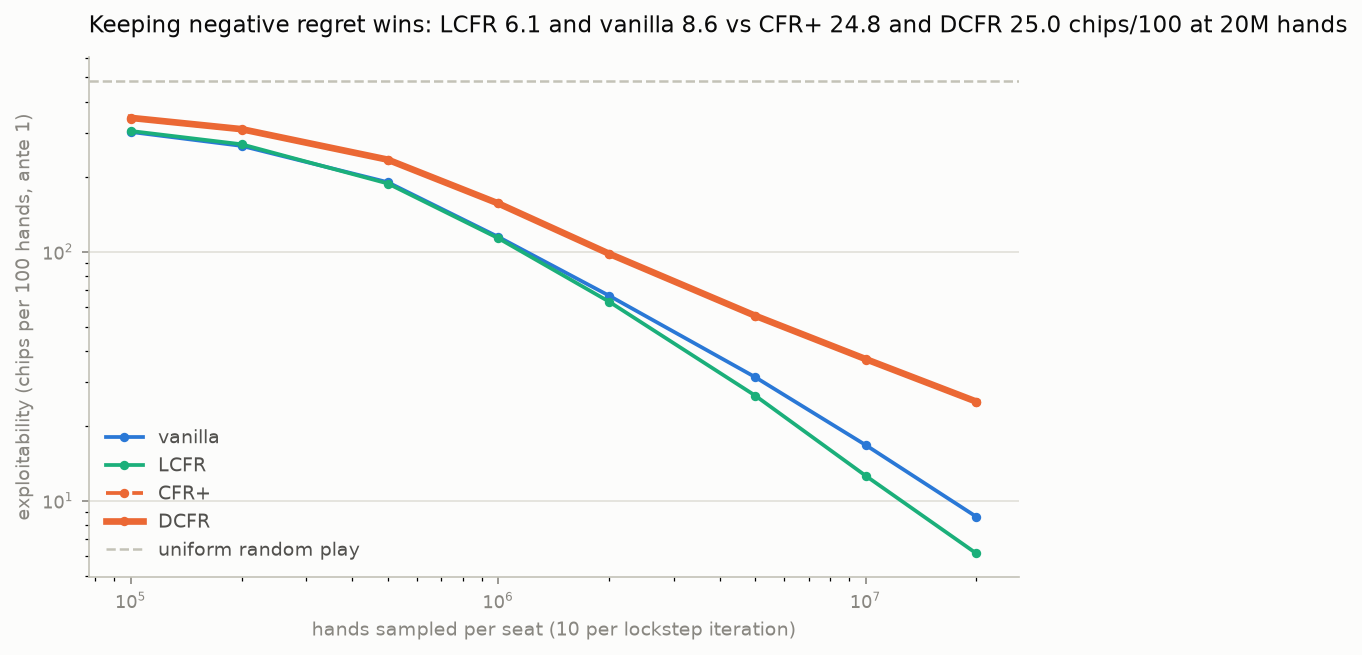
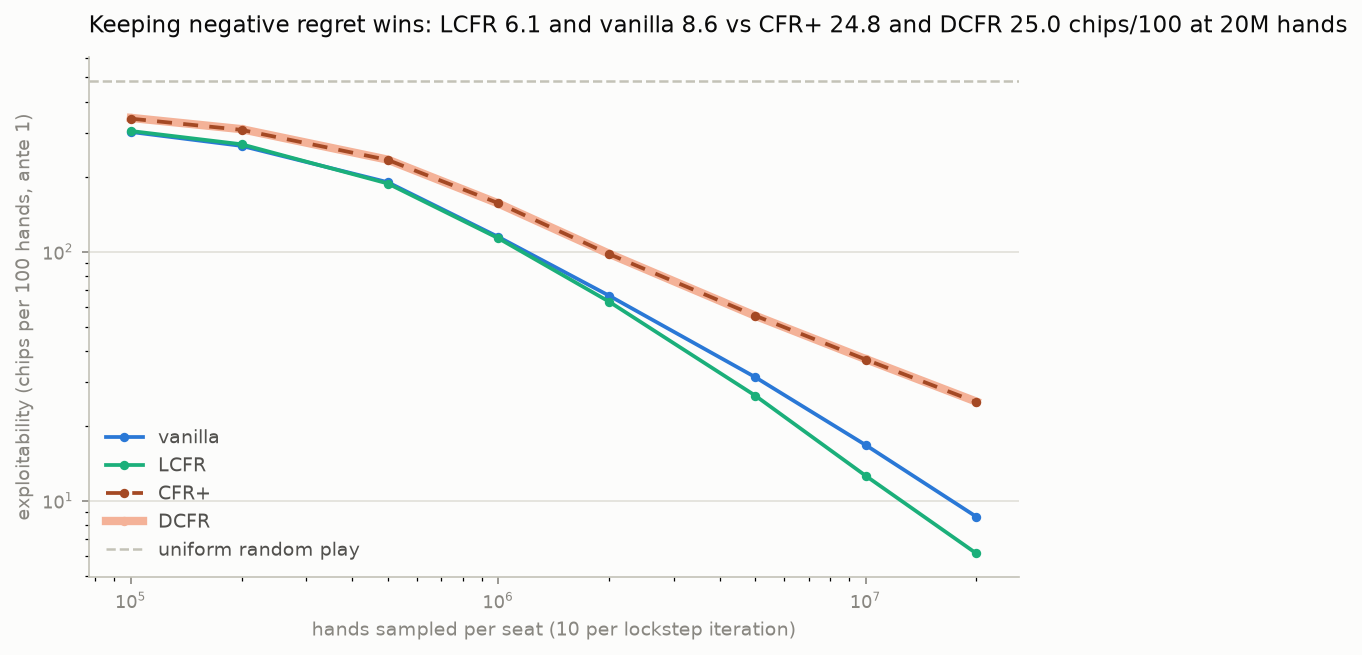
fix(rung3): CFR+ visible over DCFR in the race, public row tolerance, main tested
The race drew CFR+ dashed in DCFR's colour on top of DCFR's wide line,
so the dashes vanished into it. The pair keep one hue in two shades:
DCFR wide in a light tint, CFR+ dashed in a dark shade. Only race.png
changes; answer_sheet.json and grades.json regenerate byte-identical.

exploitability's row-sum tolerance is now public, since strategy.py
imports it. A test drives minidraw-play's main with --strategy and
--seed: the given file is played without a fetch, the report quotes no
release numbers, and the same seed and keys replay the same session.

Claude-Session: https://claude.ai/code/session_01SCLVFR2pGV3c5SVKUiJocg

diff --git a/tests/minidrawmaha/test_play.py b/tests/minidrawmaha/test_play.py
@@ -14,6 +14,7 @@ import pytest
 
 from drawmaha_solver.minidrawmaha.cards import CARD_SYMBOL, parse_cards
 from drawmaha_solver.minidrawmaha.game import Action, MiniState
+from drawmaha_solver.minidrawmaha import play
 from drawmaha_solver.minidrawmaha.play import (
     RELEASE_EXPLOITABILITY,
     RELEASE_SELF_PLAY_VALUE_P0,
@@ -27,6 +28,7 @@ from drawmaha_solver.minidrawmaha.play import (
     showdown_line,
     thrown_card,
 )
+from drawmaha_solver.minidrawmaha.strategy import save_strategy, uniform_strategy
 from drawmaha_solver.play_session import QuitGame, Scoreboard
 
 GRADES = Path(__file__).parents[2] / "figures" / "rung3" / "grades.json"
@@ -208,3 +210,31 @@ def test_another_strategy_is_not_read_against_the_release_numbers(capsys):
     out = capsys.readouterr().out
     assert "as P0: -1 over 1 hands (-1.000 per hand)" in out
     assert "0.091" not in out and "0.061" not in out
+
+# ---------------------------------------------------------------------------
+# The command
+# ---------------------------------------------------------------------------
+
+def test_main_plays_the_file_it_is_given_without_fetching_and_its_seed_replays(
+    tmp_path, monkeypatch, capsys
+):
+    # A whole-game uniform file: `load_strategy` refuses any other layout.
+    path = tmp_path / "uniform.npz"
+    save_strategy(uniform_strategy(), path)
+
+    def no_fetch():
+        raise AssertionError("--strategy was given, so nothing is fetched")
+
+    monkeypatch.setattr(play, "fetch_strategy", no_fetch)
+    typed = iter(["c", "s"] * 6 + ["q"])
+    monkeypatch.setattr("builtins.input", lambda prompt: next(typed))
+
+    def session():
+        play.main(["--strategy", str(path), "--seed", "3"])
+        return capsys.readouterr().out
+
+    first = session()
+    typed = iter(["c", "s"] * 6 + ["q"])
+    assert "Loaded UNIFORM" in first and "hand 2" in first
+    assert "0.061" not in first
+    assert session() == first

diff --git a/src/drawmaha_solver/minidrawmaha/analysis.py b/src/drawmaha_solver/minidrawmaha/analysis.py
@@ -139,15 +139,20 @@ class _Rule:
     linewidth: float
     zorder: int
 
+# CFR+ and DCFR are one family (both drop negative regret) and their curves
+# lie almost on top of each other, so they share CATEGORICAL[1]'s hue in two
+# shades: DCFR goes wide underneath in a light tint, CFR+ dashed on top in a
+# dark shade. In one shade the dashes vanish into the wide line beneath them.
+_FAMILY_LIGHT = "#f4b298"  # CATEGORICAL[1] mixed half and half with the surface
+_FAMILY_DARK = "#a44924"  # CATEGORICAL[1] at 70% brightness
+
 # Keyed by the directory name the Volume and `grades.json` both use, in the
-# order the legend and the answer sheet list them. CFR+ and DCFR share a colour
-# because their curves lie close: DCFR goes wide underneath, CFR+ dashed on
-# top, so both stay visible where they overlap.
+# order the legend and the answer sheet list them.
 RULES: dict[str, _Rule] = {
     "vanilla": _Rule(RegretRule.VANILLA, "vanilla", True, CATEGORICAL[0], "-", 1.8, 3),
     "lcfr": _Rule(RegretRule.LCFR, "LCFR", True, CATEGORICAL[2], "-", 1.8, 3),
-    "cfrplus": _Rule(RegretRule.CFR_PLUS, "CFR+", False, CATEGORICAL[1], (0, (4, 3)), 1.8, 4),
-    "dcfr": _Rule(RegretRule.DCFR, "DCFR", False, CATEGORICAL[1], "-", 3.2, 3),
+    "cfrplus": _Rule(RegretRule.CFR_PLUS, "CFR+", False, _FAMILY_DARK, (0, (4, 3)), 1.8, 4),
+    "dcfr": _Rule(RegretRule.DCFR, "DCFR", False, _FAMILY_LIGHT, "-", 4.0, 3),
 }
 
 COLUMN_COLOURS = {

diff --git a/src/drawmaha_solver/minidrawmaha/strategy.py b/src/drawmaha_solver/minidrawmaha/strategy.py
@@ -44,7 +44,7 @@ from pathlib import Path
 
 import numpy as np
 
-from drawmaha_solver.minidrawmaha.exploitability import _ROW_SUM_TOLERANCE
+from drawmaha_solver.minidrawmaha.exploitability import ROW_SUM_TOLERANCE
 from drawmaha_solver.minidrawmaha.game import InfoSet
 from drawmaha_solver.minidrawmaha.lockstep import read_lockstep
 from drawmaha_solver.minidrawmaha.packed_table import PackedTable
@@ -143,7 +143,7 @@ def _first_bad_row(probabilities: np.ndarray, widths: np.ndarray) -> int | None:
     finite = np.logical_and.reduceat(np.isfinite(values), starts)
     nonnegative = np.logical_and.reduceat(values >= 0.0, starts)
     totals = np.add.reduceat(values, starts)
-    fine = finite & nonnegative & (np.abs(totals - 1.0) <= _ROW_SUM_TOLERANCE)
+    fine = finite & nonnegative & (np.abs(totals - 1.0) <= ROW_SUM_TOLERANCE)
     bad = np.flatnonzero(~fine)
     return int(bad[0]) if bad.size else None
 

diff --git a/src/drawmaha_solver/minidrawmaha/exploitability.py b/src/drawmaha_solver/minidrawmaha/exploitability.py
@@ -354,14 +354,14 @@ def _snapshot(strategies: Profile, game: VectorGame, *, seats: tuple[int, ...]) 
         )
     return tables
 
-_ROW_SUM_TOLERANCE = 1e-6  # float32 rows land within this of 1.0
+ROW_SUM_TOLERANCE = 1e-6  # float32 rows land within this of 1.0
 
 def _not_a_distribution(rows: np.ndarray, found: np.ndarray) -> int | None:
     """Index of the first found row that is not a probability vector, or None."""
     fine = (
         np.isfinite(rows).all(axis=1)
         & (rows >= 0.0).all(axis=1)
-        & (np.abs(rows.sum(axis=1) - 1.0) <= _ROW_SUM_TOLERANCE)
+        & (np.abs(rows.sum(axis=1) - 1.0) <= ROW_SUM_TOLERANCE)
     )
     bad = np.flatnonzero(found & ~fine)
     return int(bad[0]) if bad.size else None
